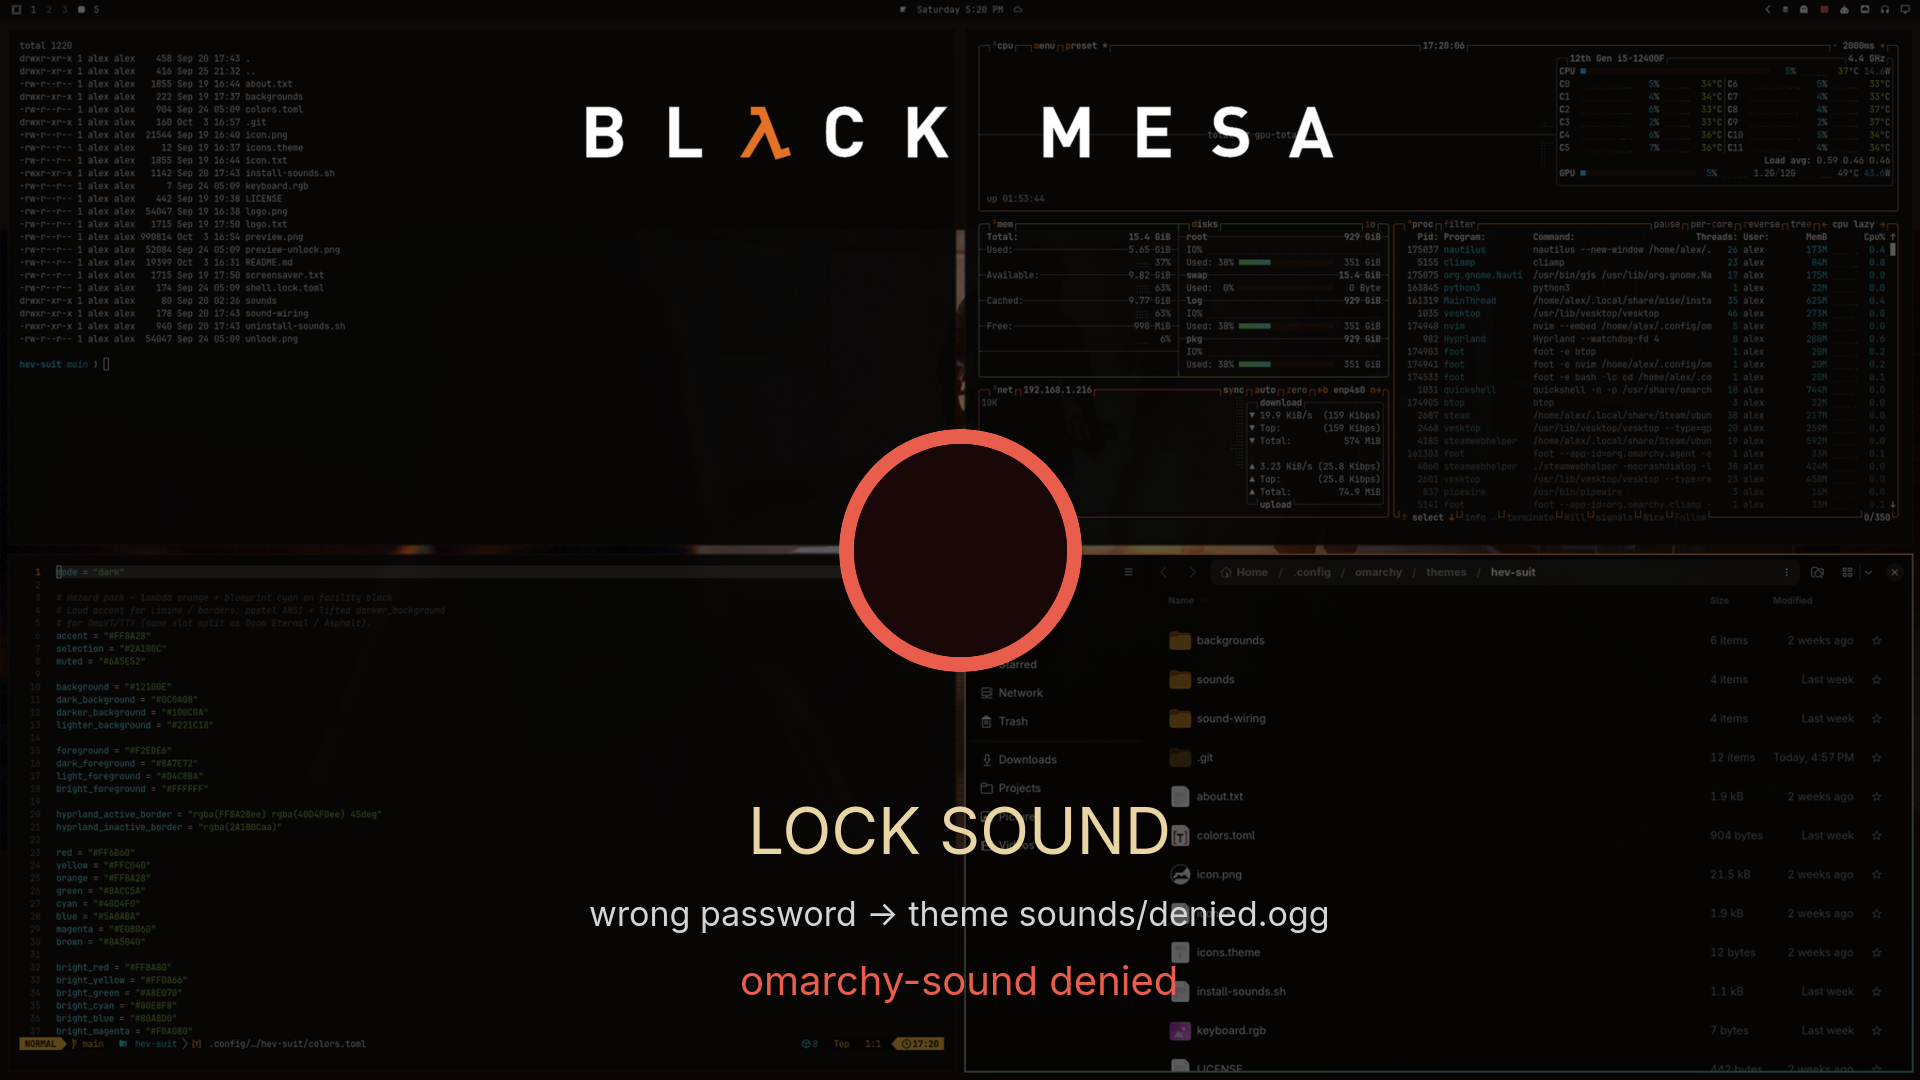
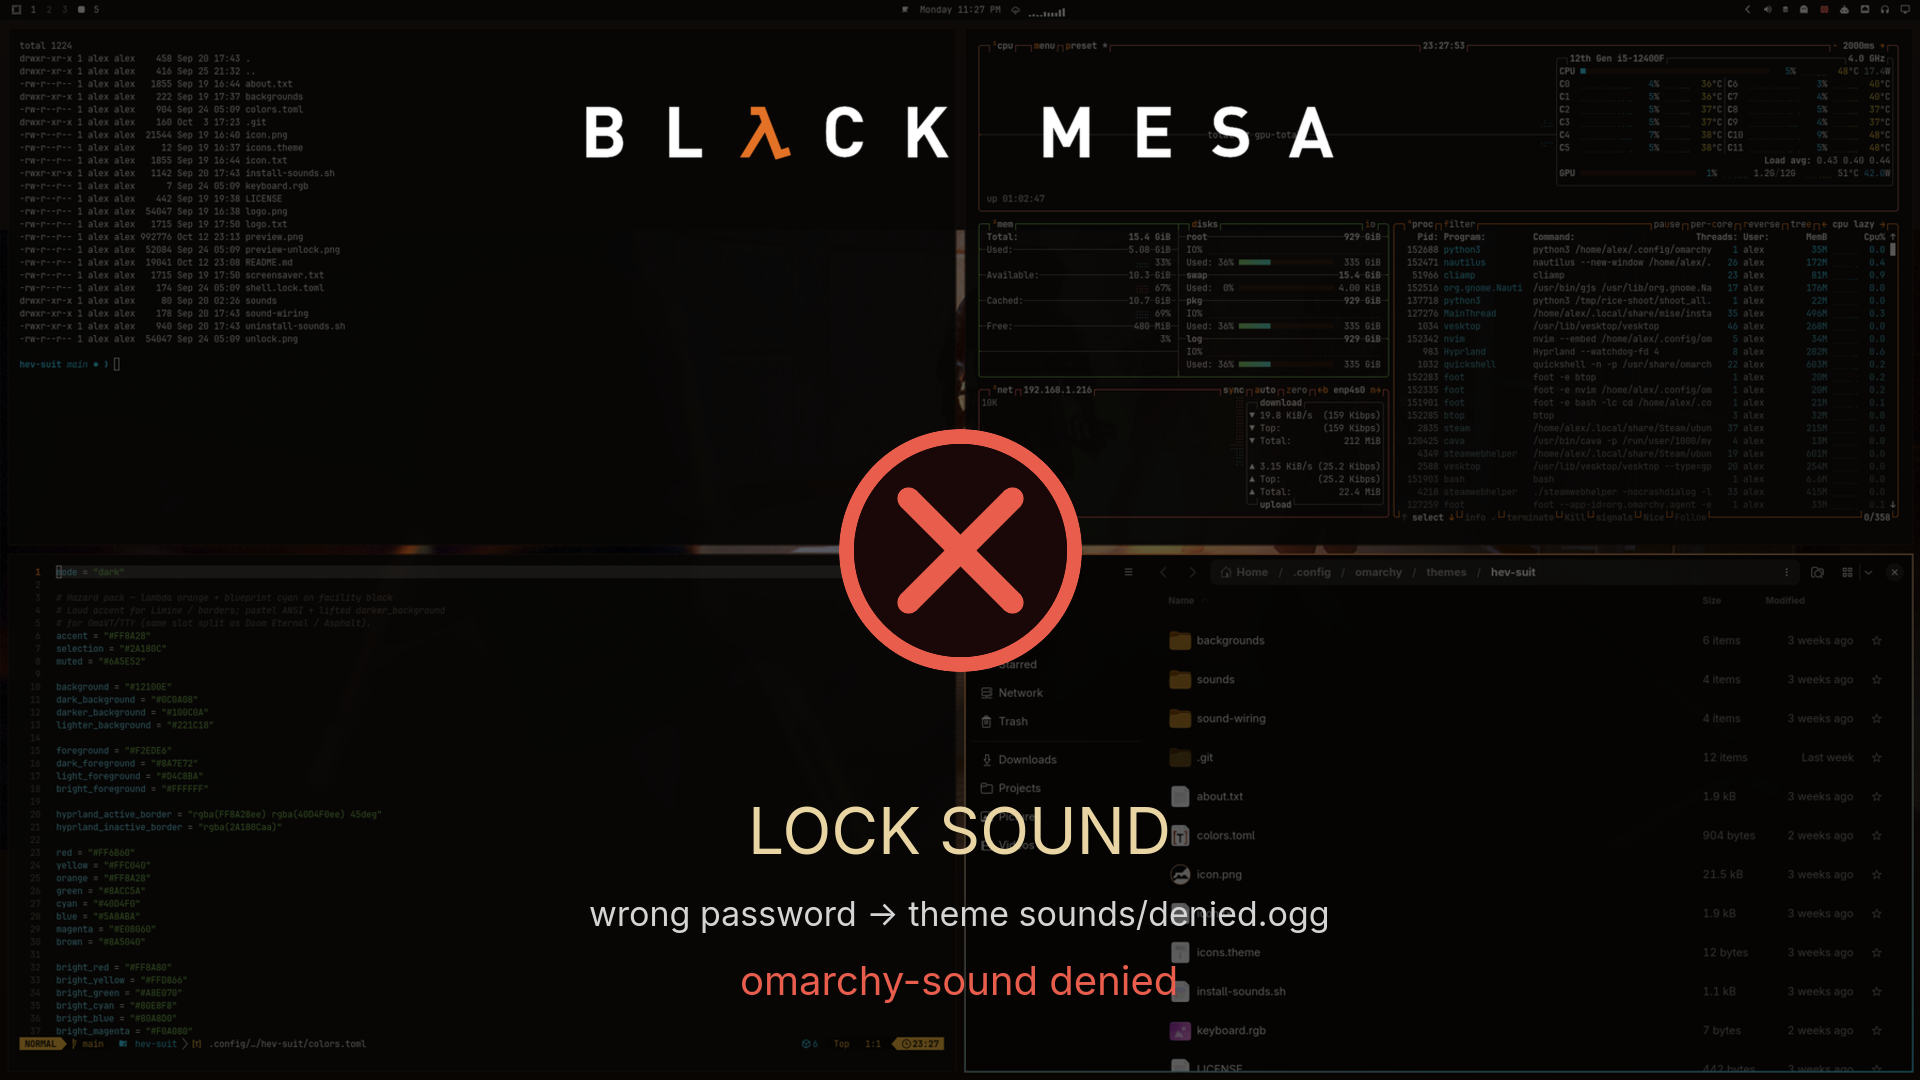
Recomposite preview from updated HEV rice; drop backdrop cava mention.

Changed region(s): [[0.75, 0.2139, 0.9062, 0.3361], [0.4688, 0.4583, 0.5312, 0.5806], [0.8438, 0.3361, 0.875, 0.3667]]

diff --git a/README.md b/README.md
@@ -83,12 +83,6 @@ stock lock by itself.
   and that’s the right call:  
   `omarchy plugin add https://github.com/ASwenia/omacord --enable`
 
-- **[Omarchy Cava](https://github.com/duncio/omarchy-cava)** — theme-aware audio
-  bars along the bottom of an empty workspace (hides when windows show up). Goes
-  well with your music when you're vibing — not much to show in a rice shot with
-  windows open, which is the point:  
-  `omarchy plugin add https://github.com/duncio/omarchy-cava --enable`
-
 ## Credits / license
 
 Forked from Omarchy’s first-party `omarchy.lock` (DHH / Omarchy). The only
